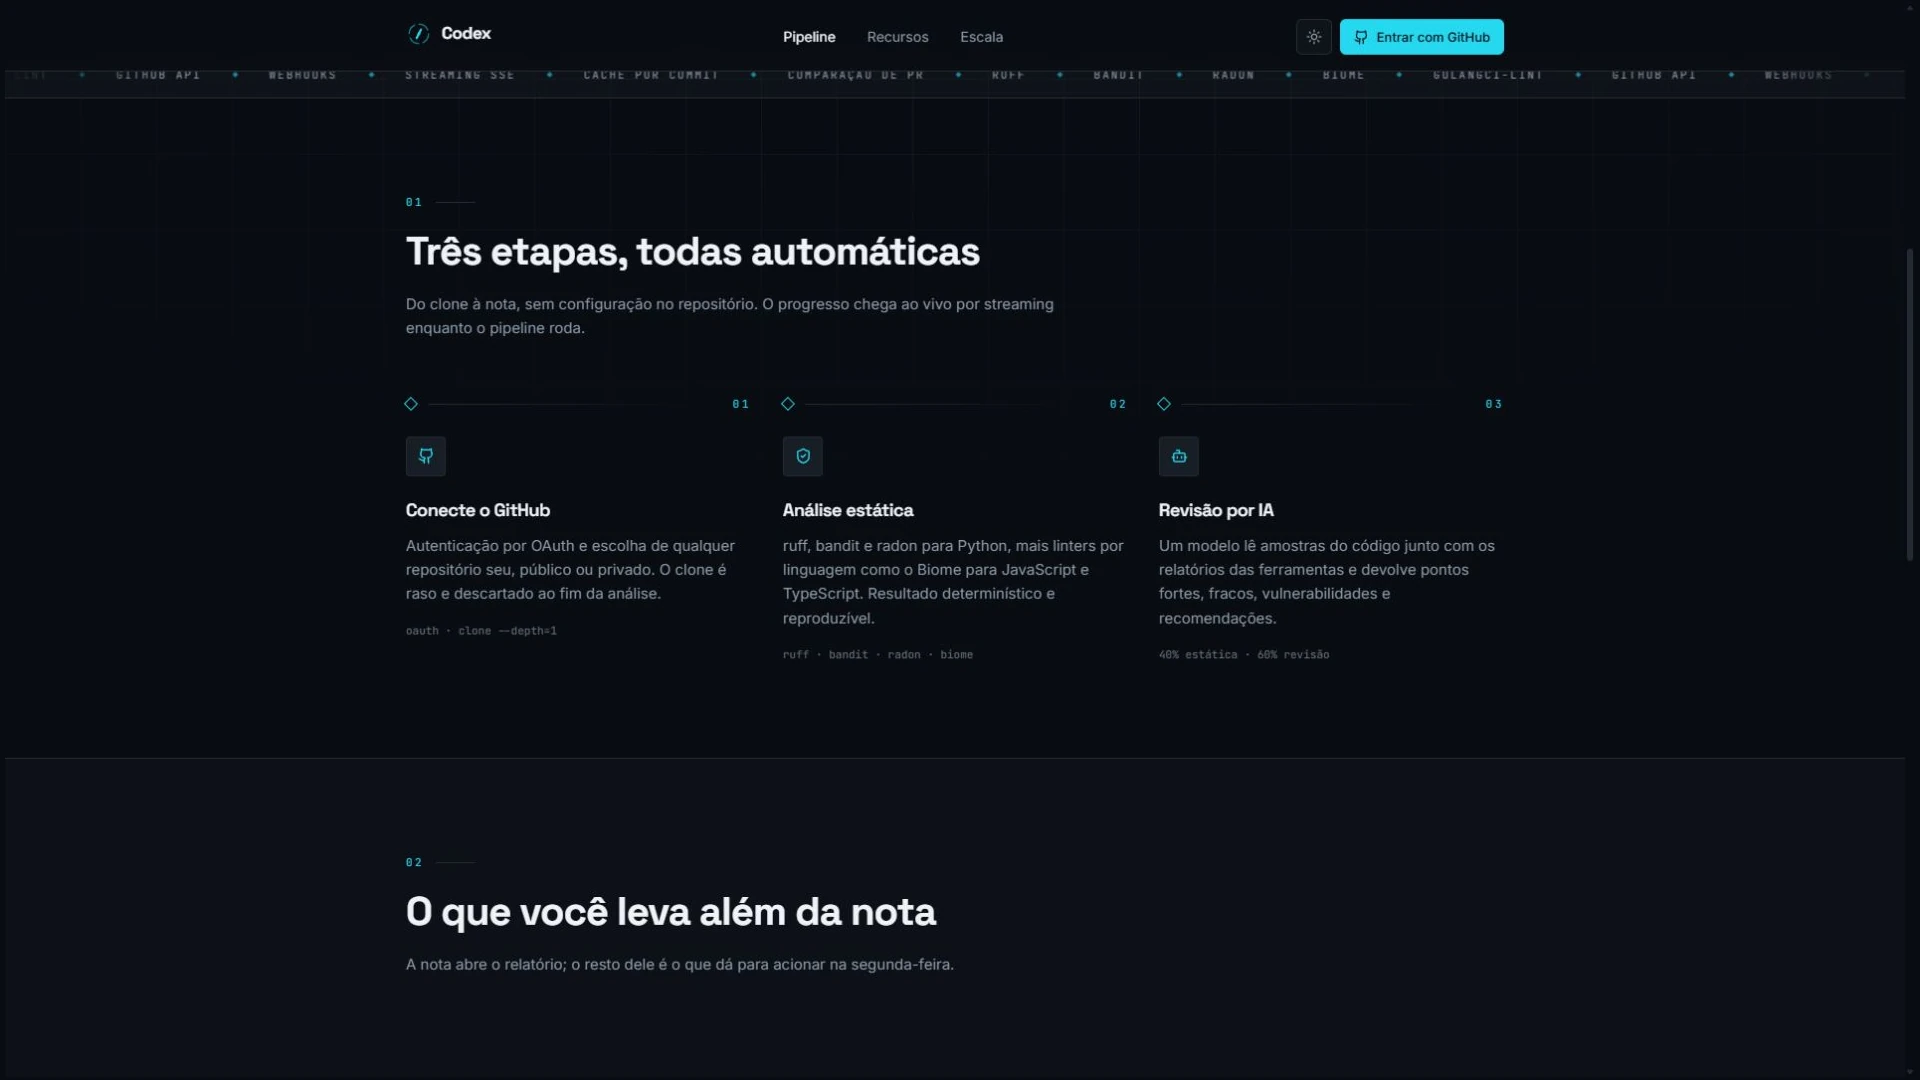
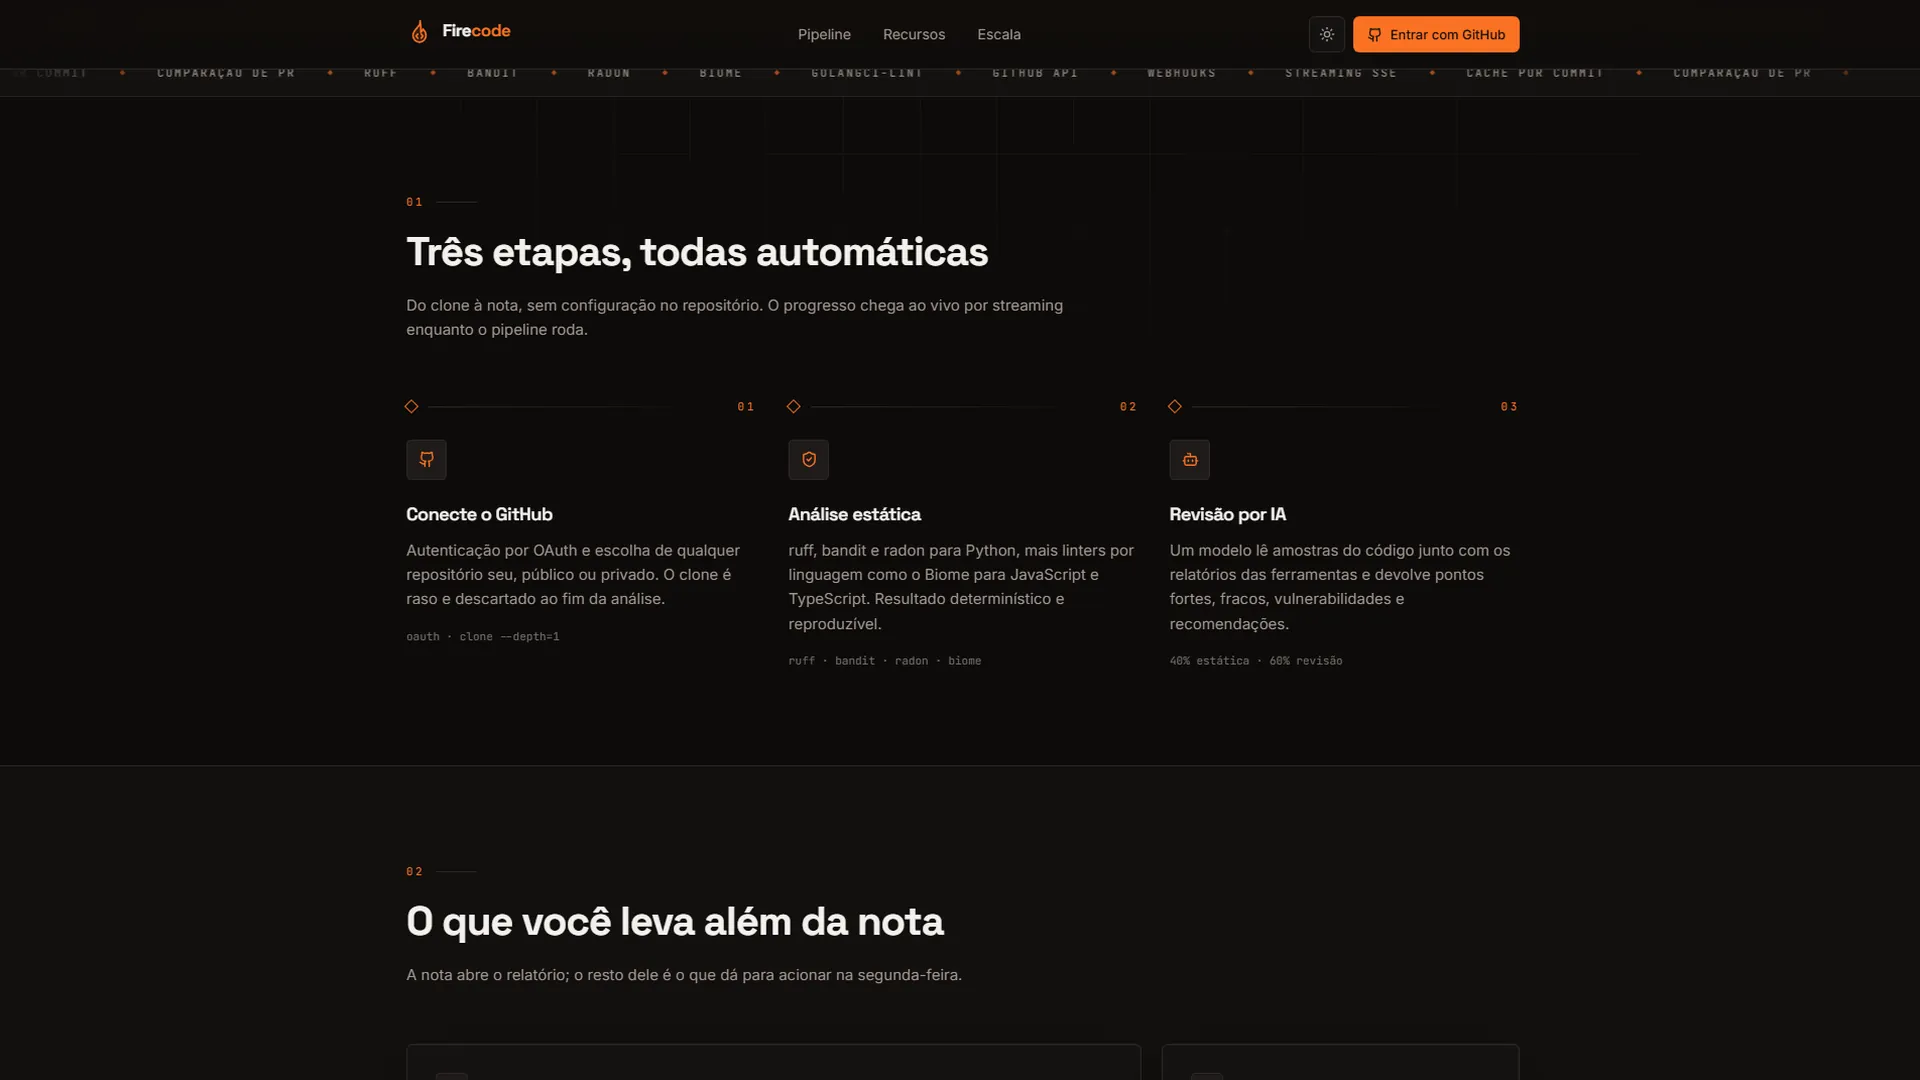
feat(destaque): capturas reais do Firecode, uma por tema
As quatro capturas ainda mostravam a página antiga (marca Codex).

- Novas capturas de firecode.shxred.app.br — topo, pipeline, recursos e
  escala —, cada uma nos temas escuro (`<nome>.webp`) e claro
  (`<nome>-light.webp`). Barra de rolagem cortada, 1920×1080, WebP
  37–56 KB (as anteriores tinham 53–70 KB).
- `ProjectSlide.srcLight` + `slideSrc(slide, theme)`: carrossel do
  destaque, ampliação (imagem, fundo e miniaturas) e página técnica
  mostram a captura do tema ativo; sem variante, vale a escura.
- Legendas descrevem as telas novas (5 ferramentas, < 60 s, peso
  40/60, reanálise por webhook); sai o aviso de que as capturas ainda
  mostravam o nome Codex.
- Testes: as duas variantes existem para toda captura e o carrossel
  troca a imagem com o tema.

Claude-Session: https://claude.ai/code/session_01HKQbFbcTyziM49TJxv7Y4d

diff --git a/apps/web/src/widgets/Featured/Featured.data.ts b/apps/web/src/widgets/Featured/Featured.data.ts
@@ -14,7 +14,9 @@ export interface ProjectTech {
 }
 
 export interface ProjectSlide {
-    src: string; // image URL
+    src: string; // captura no tema escuro (padrão do site)
+    /** Mesma tela no tema claro; quando existe, acompanha o tema ativo. */
+    srcLight?: string;
     label: { pt: string; en: string };
     sub: { pt: string; en: string };
     /** Descrição rica para exibir no lightbox (texto contextual) */
@@ -132,6 +134,7 @@ export const FEATURED_PROJECT = {
     slides: [
         {
             src: "/projects/firecode/overview.webp",
+            srcLight: "/projects/firecode/overview-light.webp",
             label: {
                 pt: "Visão geral",
                 en: "Overview",
@@ -141,27 +144,29 @@ export const FEATURED_PROJECT = {
                 en: "Static analysis + AI",
             },
             description: {
-                pt: "Página pública do projeto, com apresentação da proposta e demonstração do pipeline. A demonstração usa dados de exemplo, como indicado no próprio site.",
-                en: "The project's public page introducing the project and its pipeline demo. The demo uses sample data, as indicated on the site.",
+                pt: "Página pública do Firecode: proposta, os números do projeto (5 ferramentas, menos de 60 s por análise, nota de 0 a 1000) e uma demonstração do pipeline com dados de exemplo, como indicado no próprio site.",
+                en: "Firecode's public page: the pitch, the project's numbers (5 tools, under 60 s per analysis, a score from 0 to 1000) and a pipeline demo with sample data, as stated on the site.",
             },
         },
         {
             src: "/projects/firecode/pipeline.webp",
+            srcLight: "/projects/firecode/pipeline-light.webp",
             label: {
                 pt: "Do código ao relatório",
                 en: "From code to report",
             },
             sub: {
-                pt: "Três etapas integradas",
-                en: "Three integrated stages",
+                pt: "Três etapas automáticas",
+                en: "Three automatic stages",
             },
             description: {
-                pt: "Captura real da explicação do fluxo: conectar o GitHub, executar as ferramentas de análise estática e revisar o código com IA.",
-                en: "Real capture of the workflow explanation: connect GitHub, run static analysis tools and review code with AI.",
+                pt: "O fluxo completo: conectar o GitHub por OAuth, rodar a análise estática (ruff, bandit, radon e Biome) e a revisão por IA. O progresso chega ao vivo por streaming.",
+                en: "The full flow: connect GitHub through OAuth, run static analysis (ruff, bandit, radon and Biome) and the AI review. Progress arrives live through streaming.",
             },
         },
         {
             src: "/projects/firecode/features.webp",
+            srcLight: "/projects/firecode/features-light.webp",
             label: {
                 pt: "Além da nota",
                 en: "Beyond the score",
@@ -171,12 +176,13 @@ export const FEATURED_PROJECT = {
                 en: "System features",
             },
             description: {
-                pt: "Seção pública que apresenta sugestões de código, comparação de pull requests, histórico e achados consolidados. Os exemplos visuais são demonstrativos.",
-                en: "Public section presenting code suggestions, pull request comparisons, history and consolidated findings. The visual examples are illustrative.",
+                pt: "O que o relatório entrega além da nota: sugestões de código lado a lado, comparação de pull requests, histórico, reanálise automática por webhook e achados consolidados. Os exemplos são demonstrativos.",
+                en: "What the report delivers beyond the score: side-by-side code suggestions, pull request comparison, history, automatic webhook reanalysis and consolidated findings. The examples are illustrative.",
             },
         },
         {
             src: "/projects/firecode/score.webp",
+            srcLight: "/projects/firecode/score-light.webp",
             label: {
                 pt: "Critérios transparentes",
                 en: "Transparent criteria",
@@ -186,8 +192,8 @@ export const FEATURED_PROJECT = {
                 en: "Score simulator",
             },
             description: {
-                pt: "Simulador da página pública: explore as faixas de classificação de 0 a 1000. A nota exibida é uma simulação, não o resultado de uma análise real.",
-                en: "Public page simulator: explore rating bands from 0 to 1000. The displayed score is simulated, not the result of a real analysis.",
+                pt: "Simulador das faixas de 0 a 1000 e do peso da nota: 40% análise estática e 60% revisão por IA; sem IA, só a parte estática. A nota exibida é uma simulação, não o resultado de uma análise real.",
+                en: "Simulator of the 0–1000 bands and of how the score is weighted: 40% static analysis and 60% AI review; without AI, only the static part. The displayed score is simulated, not the result of a real analysis.",
             },
         },
     ] as ProjectSlide[],
@@ -281,3 +287,8 @@ export const FEATURED_PROJECT = {
         },
     ] as ArchitectureCard[],
 } as const;
+
+/** Captura do tema ativo: a clara quando existe e o tema é claro. */
+export function slideSrc(slide: ProjectSlide, theme: "light" | "dark"): string {
+    return theme === "light" && slide.srcLight ? slide.srcLight : slide.src;
+}

diff --git a/apps/web/src/widgets/Featured/Featured.test.tsx b/apps/web/src/widgets/Featured/Featured.test.tsx
@@ -8,9 +8,10 @@ import {
 } from "@testing-library/react";
 import userEvent from "@testing-library/user-event";
 import { LangProvider } from "@/app/LangContext";
+import { ThemeProvider } from "@/app/ThemeContext";
 import { Featured } from "./Featured";
-import { FEATURED_PROJECT } from "./Featured.data";
-import { LANG_KEY } from "@/shared/config/constants";
+import { FEATURED_PROJECT, slideSrc } from "./Featured.data";
+import { LANG_KEY, THEME_KEY } from "@/shared/config/constants";
 
 /**
  * Janela com uma aba única do projeto e um carrossel MANUAL das
@@ -20,12 +21,15 @@ import { LANG_KEY } from "@/shared/config/constants";
 const SLIDES = FEATURED_PROJECT.slides;
 const N = SLIDES.length;
 
-const montar = (lang: "pt" | "en" = "pt") => {
+const montar = (lang: "pt" | "en" = "pt", theme: "dark" | "light" = "dark") => {
     localStorage.setItem(LANG_KEY, lang);
+    localStorage.setItem(THEME_KEY, theme);
     return render(
-        <LangProvider>
-            <Featured />
-        </LangProvider>,
+        <ThemeProvider>
+            <LangProvider>
+                <Featured />
+            </LangProvider>
+        </ThemeProvider>,
     );
 };
 
@@ -182,4 +186,35 @@ describe("Featured — o lightbox", () => {
             expect(screen.getByRole("dialog")).toBeInTheDocument(),
         );
     });
+});
+
+describe("Featured — capturas por tema", () => {
+    it("toda captura tem versão escura e clara, na pasta do Firecode", () => {
+        for (const slide of SLIDES) {
+            expect(slide.src).toMatch(/^\/projects\/firecode\/[a-z]+\.webp$/);
+            expect(slide.srcLight).toBe(
+                slide.src.replace(".webp", "-light.webp"),
+            );
+        }
+    });
+
+    it("slideSrc escolhe a captura do tema e cai na escura sem variante", () => {
+        const [primeiro] = SLIDES;
+        expect(slideSrc(primeiro!, "dark")).toBe(primeiro!.src);
+        expect(slideSrc(primeiro!, "light")).toBe(primeiro!.srcLight);
+        expect(slideSrc({ ...primeiro!, srcLight: undefined }, "light")).toBe(
+            primeiro!.src,
+        );
+    });
+
+    it.each(["dark", "light"] as const)(
+        "no tema %s, o carrossel mostra a captura correspondente",
+        (theme) => {
+            montar("pt", theme);
+            const img = within(carrossel()).getByRole("img", {
+                name: new RegExp(SLIDES[0]!.label.pt),
+            });
+            expect(img).toHaveAttribute("src", slideSrc(SLIDES[0]!, theme));
+        },
+    );
 });

diff --git a/apps/web/src/widgets/Featured/components/FeaturedLightbox.tsx b/apps/web/src/widgets/Featured/components/FeaturedLightbox.tsx
@@ -1,6 +1,7 @@
 import React, { useEffect, useRef, useCallback, useState } from "react";
 import "./FeaturedLightbox.css";
 import { useLang } from "@/shared/hooks/useLang";
+import { useTheme } from "@/shared/hooks/useTheme";
 import { Modal } from "@/shared/ui/Modal/Modal";
 import {
     IconClose,
@@ -9,7 +10,7 @@ import {
     IconExternalLink,
     IconSearch,
 } from "@/shared/ui/Icons";
-import type { ProjectSlide } from "../Featured.data";
+import { slideSrc, type ProjectSlide } from "../Featured.data";
 
 interface FeaturedLightboxProps {
     slides: ProjectSlide[];
@@ -38,6 +39,7 @@ export const FeaturedLightbox: React.FC<FeaturedLightboxProps> = ({
     onClose,
 }) => {
     const { lang, t } = useLang();
+    const { theme } = useTheme();
     const [index, setIndex] = useState(initialIndex);
     const [direction, setDirection] = useState<Direction>("none");
     const [imageLoaded, setImageLoaded] = useState(false);
@@ -161,15 +163,17 @@ export const FeaturedLightbox: React.FC<FeaturedLightboxProps> = ({
                     {/* Backdrop blur of the image */}
                     <div
                         className="fl-stage-backdrop"
-                        style={{ backgroundImage: `url(${slide.src})` }}
+                        style={{
+                            backgroundImage: `url(${slideSrc(slide, theme)})`,
+                        }}
                         aria-hidden="true"
                     />
 
                     {/* Actual image */}
                     <figure className="fl-figure">
                         <img
-                            key={slide.src}
-                            src={slide.src}
+                            key={slideSrc(slide, theme)}
+                            src={slideSrc(slide, theme)}
                             alt={`${projectName} — ${slide.label[lang]}`}
                             className={`fl-image${imageLoaded ? " is-loaded" : ""}`}
                             onLoad={() => setImageLoaded(true)}
@@ -280,7 +284,7 @@ export const FeaturedLightbox: React.FC<FeaturedLightboxProps> = ({
                             aria-current={i === index}
                         >
                             <img
-                                src={s.src}
+                                src={slideSrc(s, theme)}
                                 alt=""
                                 loading="lazy"
                                 decoding="async"

diff --git a/apps/web/projects/firecode/index.html b/apps/web/projects/firecode/index.html
@@ -39,7 +39,7 @@
         <meta property="og:image:height" content="1080" />
         <meta
             property="og:image:alt"
-            content="Página pública do projeto (ainda com o nome anterior, Codex) com apresentação e demonstração do pipeline"
+            content="Página pública do Firecode com proposta, métricas e demonstração do pipeline"
         />
         <meta name="twitter:card" content="summary_large_image" />
         <meta
@@ -323,7 +323,7 @@
                                     src="/projects/firecode/overview.webp"
                                     width="1920"
                                     height="1080"
-                                    alt="Página pública do projeto (ainda com o nome anterior, Codex) com proposta e demonstração do pipeline"
+                                    alt="Página pública do Firecode com proposta, métricas e demonstração do pipeline"
                                     loading="lazy"
                                 />
                                 <figcaption>
@@ -343,7 +343,7 @@
                                     loading="lazy"
                                 />
                                 <figcaption>
-                                    <p>Pipeline: três etapas integradas.</p>
+                                    <p>Pipeline: três etapas automáticas.</p>
                                 </figcaption>
                             </figure>
                             <figure class="codex__capture">

diff --git a/apps/web/src/widgets/Featured/Featured.tsx b/apps/web/src/widgets/Featured/Featured.tsx
@@ -1,6 +1,7 @@
 import React, { lazy, Suspense, useRef, useState } from "react";
 import "./Featured.css";
 import { useLang } from "@/shared/hooks/useLang";
+import { useTheme } from "@/shared/hooks/useTheme";
 import {
     IconArrowRight,
     IconChevronLeft,
@@ -17,6 +18,7 @@ import { lookupTech, type Tech } from "@/features/devhub/tech";
 import { NEUTRAL_LANGUAGE_COLOR } from "@/features/devhub/types";
 import {
     FEATURED_PROJECT as project,
+    slideSrc,
     type ProjectTech,
     type TechGroup,
 } from "./Featured.data";
@@ -75,6 +77,7 @@ const dois = (n: number) => String(n).padStart(2, "0");
 
 export function Featured() {
     const { lang, t } = useLang();
+    const { theme } = useTheme();
     const [atual, setAtual] = useState(0);
     const [ampliada, setAmpliada] = useState<number | null>(null);
     const toque = useRef<{ x: number; y: number } | null>(null);
@@ -267,7 +270,7 @@ export function Featured() {
                                     }}
                                 >
                                     <img
-                                        src={slide.src}
+                                        src={slideSrc(slide, theme)}
                                         alt={`${project.name} — ${slide.label[lang]}`}
                                         width={1920}
                                         height={1080}

diff --git a/apps/web/src/pages/Codex/index.tsx b/apps/web/src/pages/Codex/index.tsx
@@ -1,8 +1,12 @@
 import { lazy, Suspense, useState } from "react";
 import { Header } from "@/widgets/Header/Header";
 import { Footer } from "@/widgets/Footer/Footer";
-import { FEATURED_PROJECT as project } from "@/widgets/Featured/Featured.data";
+import {
+    FEATURED_PROJECT as project,
+    slideSrc,
+} from "@/widgets/Featured/Featured.data";
 import { useLang } from "@/shared/hooks/useLang";
+import { useTheme } from "@/shared/hooks/useTheme";
 import { useDocumentMeta } from "@/shared/hooks/useDocumentMeta";
 import { useReducedMotion } from "@/shared/hooks/useReducedMotion";
 import { ROUTES } from "@/shared/config/routes";
@@ -22,6 +26,7 @@ const Gallery = lazy(() =>
 
 export function CodexPage() {
     const { lang } = useLang();
+    const { theme } = useTheme();
     useReducedMotion();
     const [image, setImage] = useState<number | null>(null);
     const tr = (pt: string, en: string) => (lang === "pt" ? pt : en);
@@ -52,7 +57,7 @@ export function CodexPage() {
                     aria-label={`${tr("Ampliar", "Enlarge")}: ${slide.label[lang]}`}
                 >
                     <img
-                        src={slide.src}
+                        src={slideSrc(slide, theme)}
                         alt={`${project.name} — ${slide.label[lang]}`}
                         width={1920}
                         height={1080}
